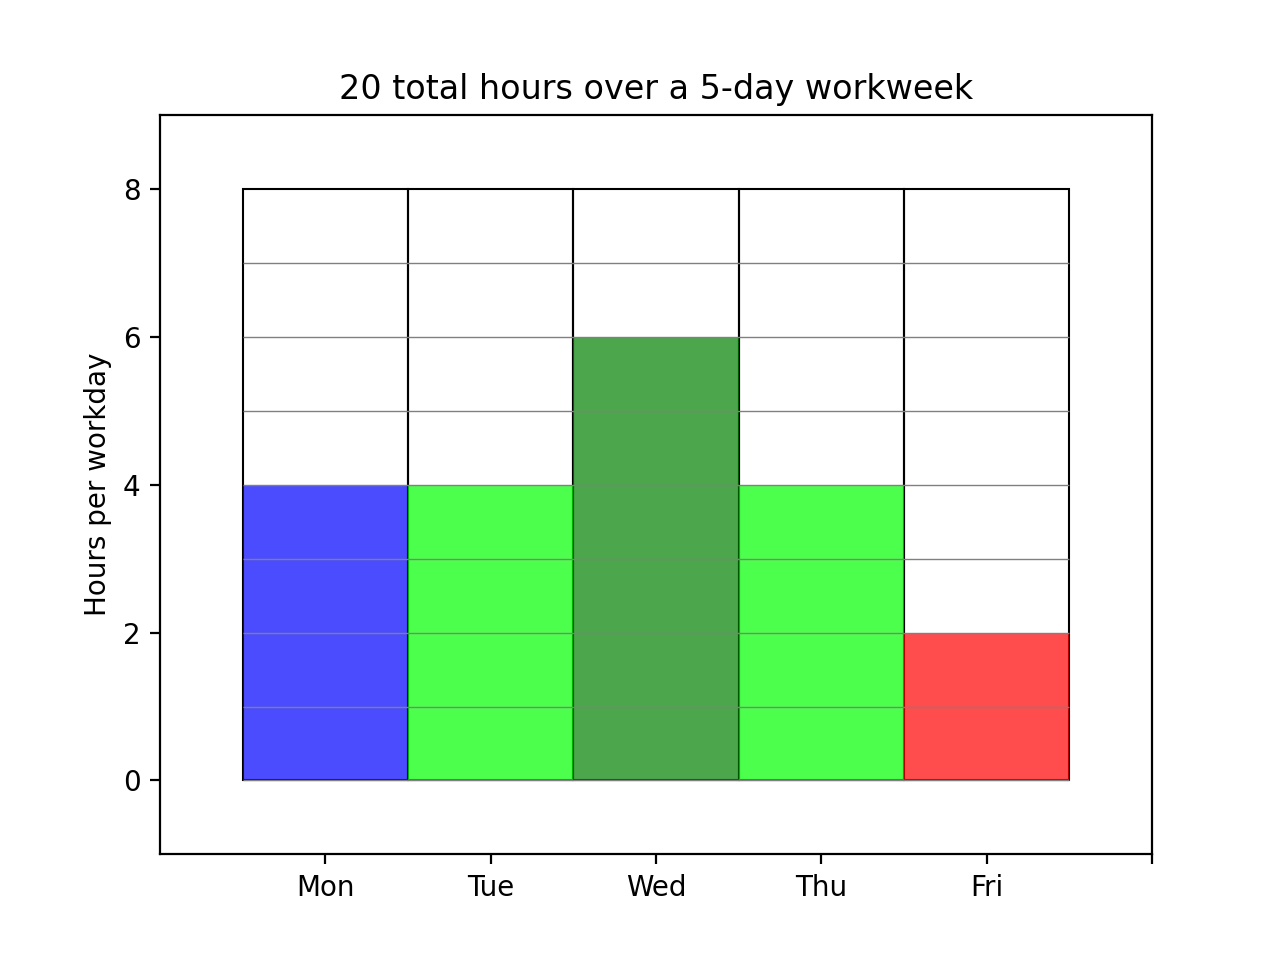
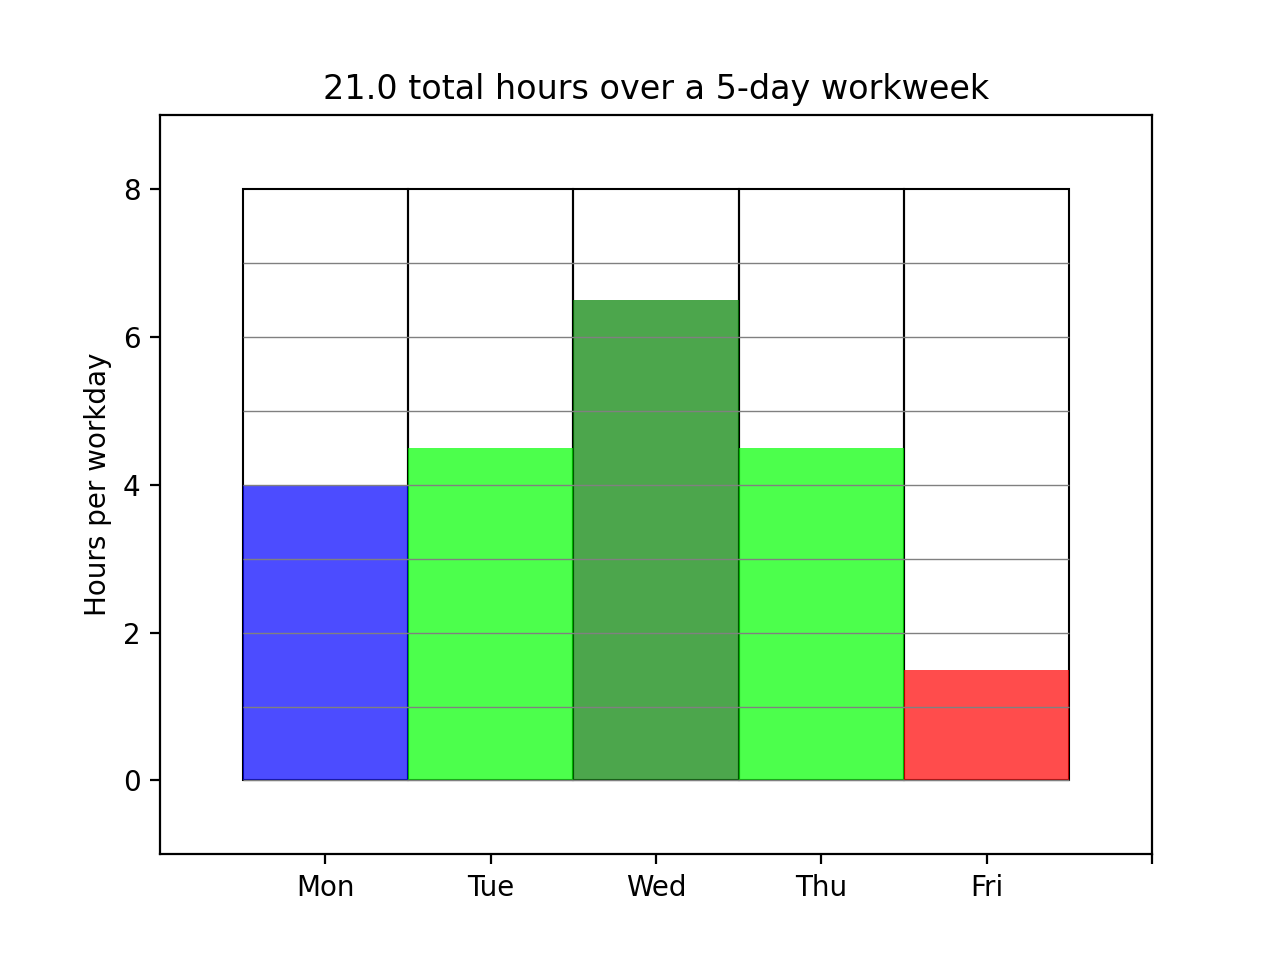
somehow, using non-integer workhours actually works

diff --git a/config.py b/config.py
@@ -7,11 +7,11 @@ change these to update your graph
 # change the day, total hours per day, and also the color
 # note: currently it's not possible to have multiple colors per day
 # list of colors https://matplotlib.org/3.1.0/gallery/color/named_colors.html
-data = [{'day': 0, 'hours' : 4, 'color' : 'b'},
-		{'day': 1, 'hours' : 4, 'color' : 'lime'},
-		{'day': 2, 'hours' : 6, 'color' : 'g'},
-		{'day': 3, 'hours' : 4, 'color' : 'lime'},
-		{'day': 4, 'hours' : 2, 'color' : 'r'},
+data = [{'day': 0, 'hours' : 4.0, 'color' : 'b'},
+		{'day': 1, 'hours' : 4.5, 'color' : 'lime'},
+		{'day': 2, 'hours' : 6.5, 'color' : 'g'},
+		{'day': 3, 'hours' : 4.5, 'color' : 'lime'},
+		{'day': 4, 'hours' : 1.5, 'color' : 'r'},
 		]
 
 # define days of the week
